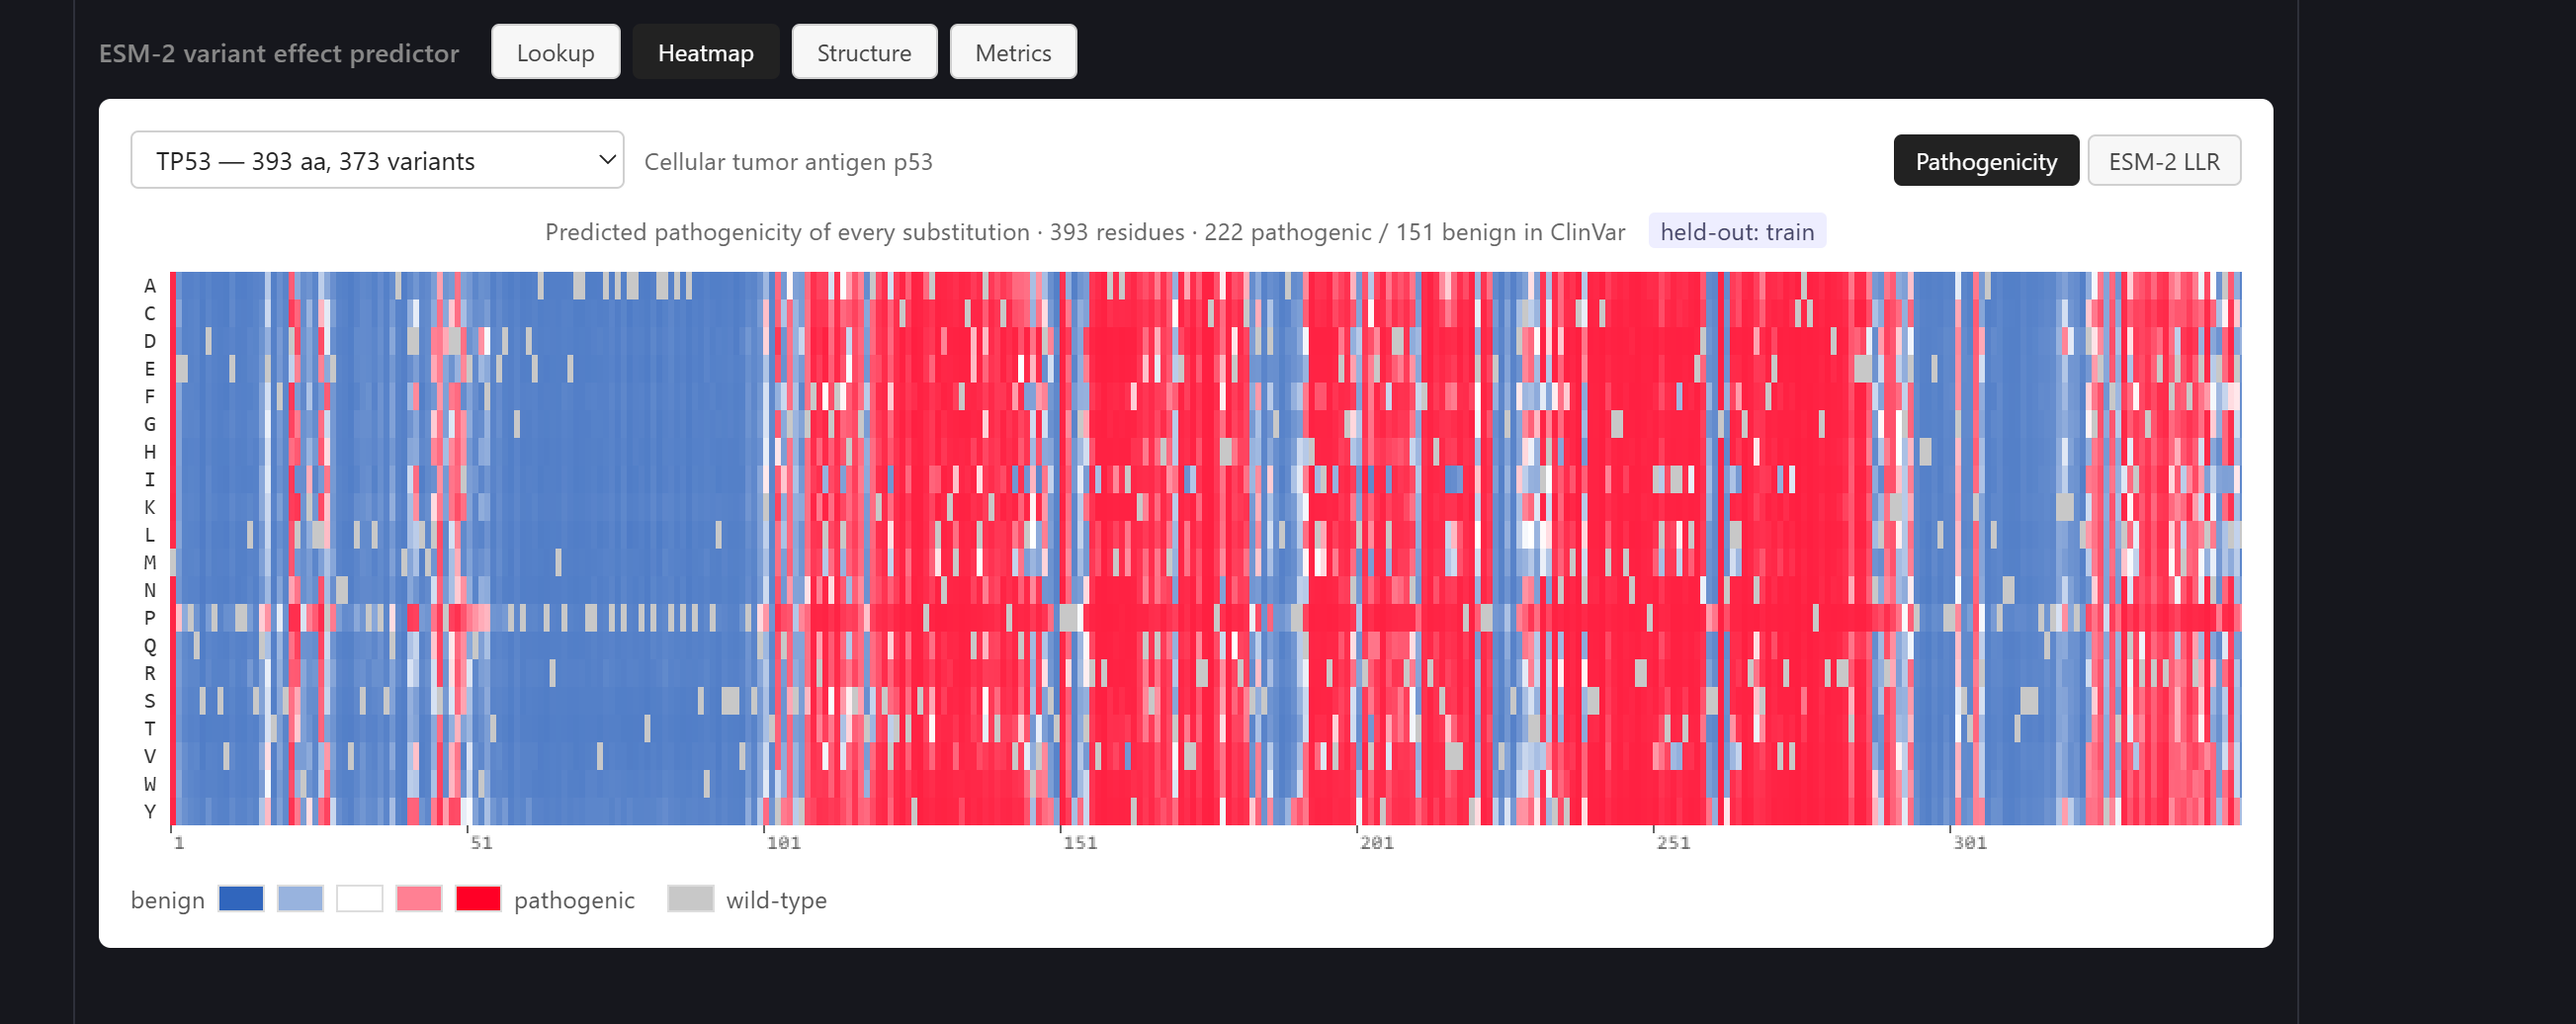
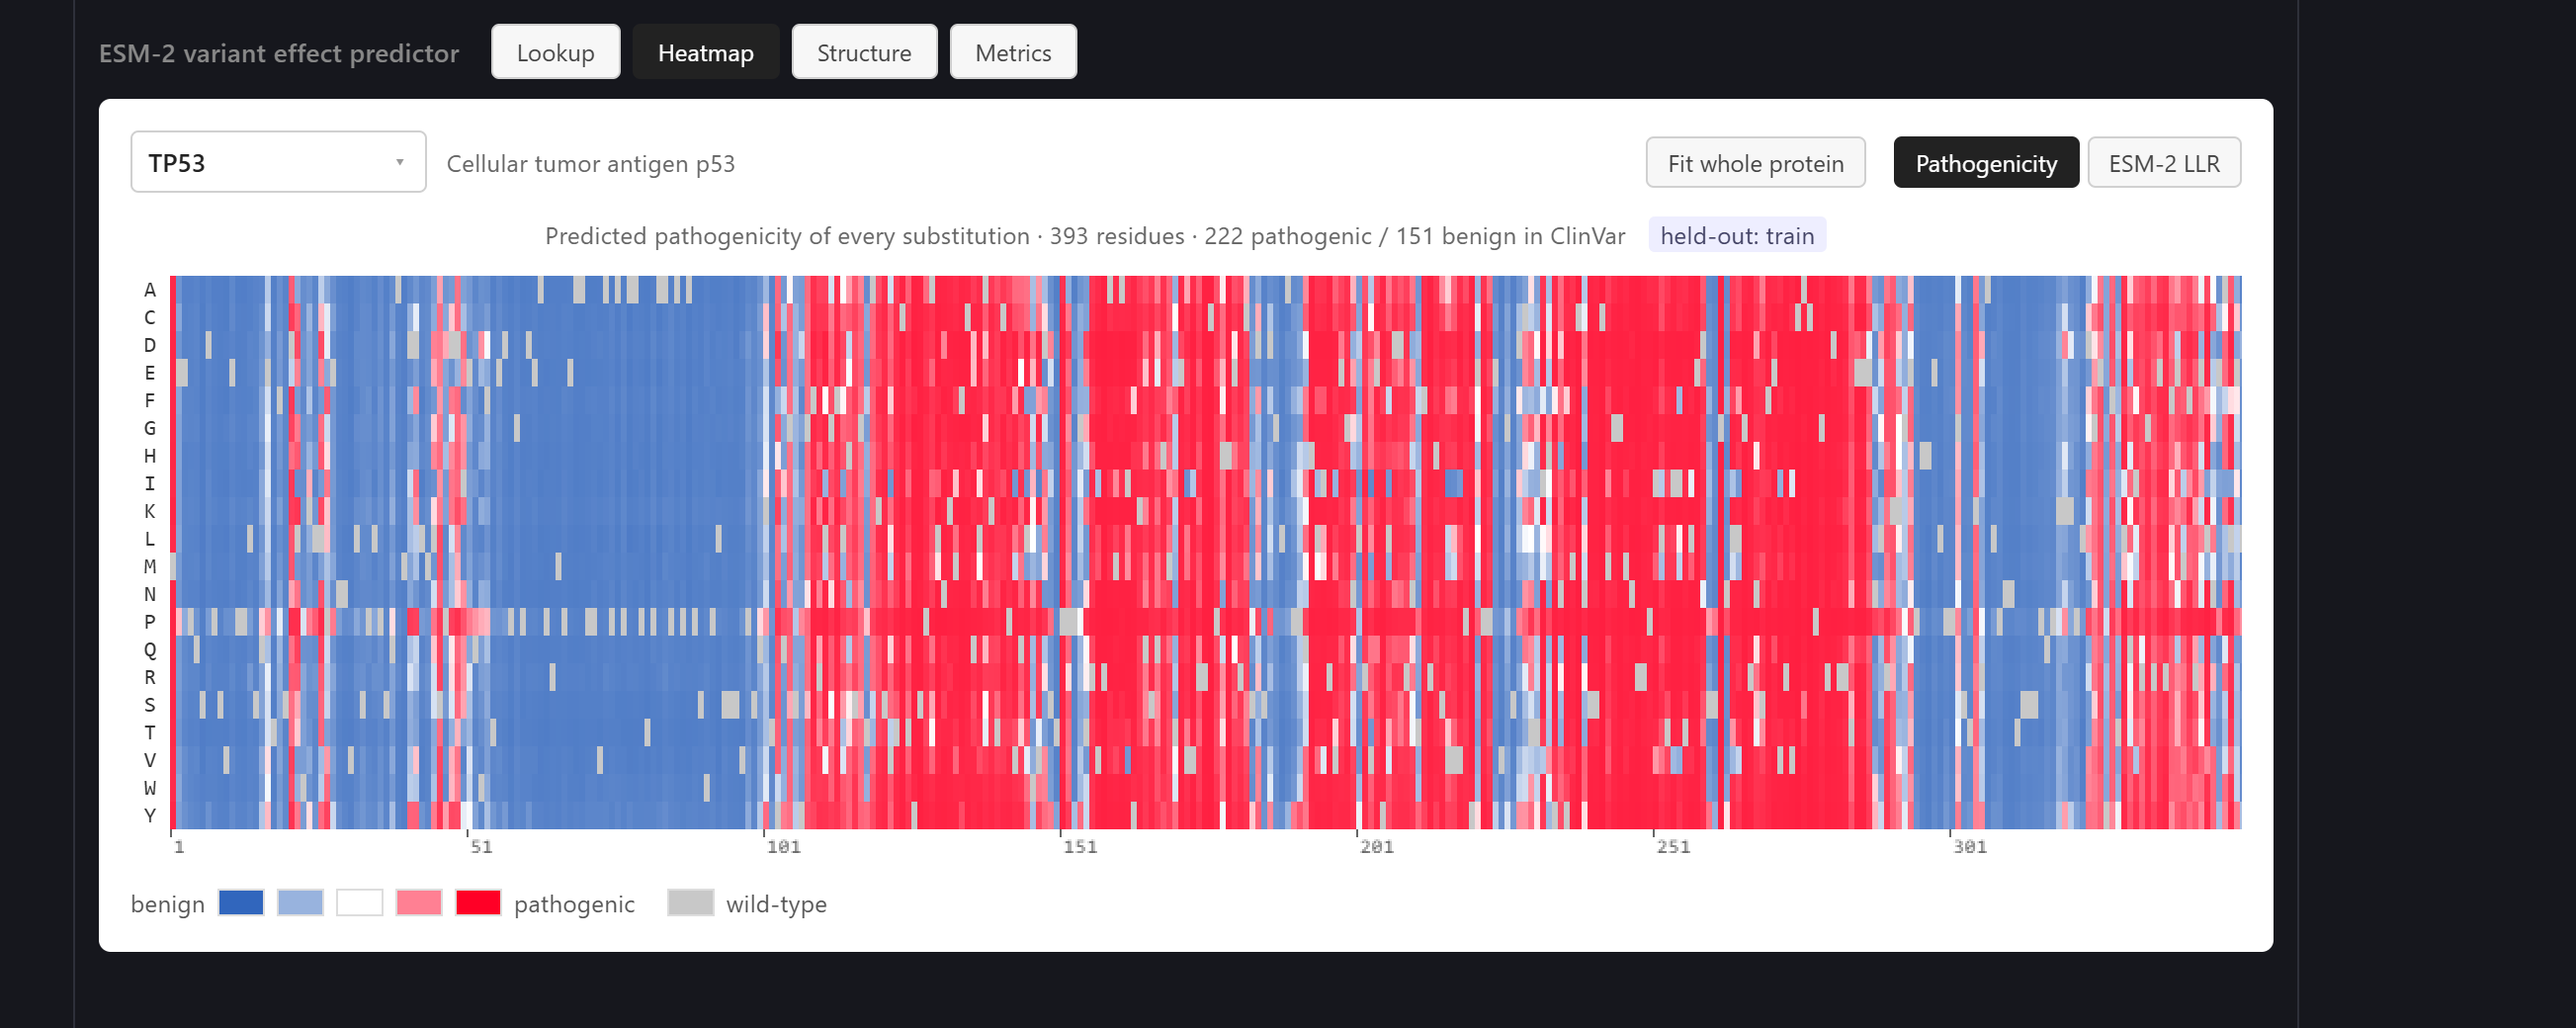
Add a filterable gene picker and a fit mode for long proteins
The picker was a native select over 183 genes with no search, duplicated in
three views. One component now serves all of them: type to filter on symbol or
protein name, arrow keys and enter to choose. The heat map keeps its ready and
not-yet-computed distinction as a dot and a per-gene label.

The heat map drew 3px cells and nothing else, so BRCA2 showed about a tenth of
itself and the pathogenic cluster in its DNA-binding domain was three screens
off to the right. Fit mode divides the container width instead, and the ruler
spaces its ticks to match. The button only appears when a protein is too long
to fit.

diff --git a/front end/web/src/components/GenePicker.vue b/front end/web/src/components/GenePicker.vue
@@ -1,0 +1,195 @@
+<script setup lang="ts">
+import { computed, nextTick, ref } from 'vue'
+
+const props = withDefaults(defineProps<{
+  modelValue: string
+  genes: any[]
+  disabled?: boolean
+  label?: (g: any) => string
+  ready?: (g: any) => boolean
+}>(), {
+  disabled: false,
+  label: (g: any) => `${g.length} aa`,
+  ready: () => true,
+})
+
+const emit = defineEmits<{ (e: 'select', symbol: string): void }>()
+
+const open = ref(false)
+const query = ref('')
+const active = ref(0)
+const box = ref<HTMLElement | null>(null)
+const field = ref<HTMLInputElement | null>(null)
+
+const matches = computed(() => {
+  const q = query.value.trim().toLowerCase()
+  const hit = (g: any) =>
+    !q || g.symbol.toLowerCase().includes(q) ||
+    (g.protein_name || '').toLowerCase().includes(q)
+  const found = props.genes.filter(hit)
+  return [...found].sort((a, b) => {
+    const r = Number(props.ready(b)) - Number(props.ready(a))
+    if (r) return r
+    // Exact prefix matches first, so typing "TP5" surfaces TP53 above TP53BP1.
+    const q2 = query.value.trim().toLowerCase()
+    const pa = Number(b.symbol.toLowerCase().startsWith(q2)) -
+               Number(a.symbol.toLowerCase().startsWith(q2))
+    return pa || a.symbol.localeCompare(b.symbol)
+  })
+})
+
+async function show() {
+  if (props.disabled) return
+  open.value = true
+  query.value = ''
+  active.value = Math.max(0, matches.value.findIndex((g) => g.symbol === props.modelValue))
+  await nextTick()
+  field.value?.focus()
+  scrollActive()
+}
+
+function hide() {
+  open.value = false
+}
+
+function choose(symbol: string) {
+  hide()
+  if (symbol !== props.modelValue) emit('select', symbol)
+}
+
+function move(step: number) {
+  if (!matches.value.length) return
+  active.value = (active.value + step + matches.value.length) % matches.value.length
+  scrollActive()
+}
+
+function scrollActive() {
+  nextTick(() => {
+    box.value?.querySelector('.row.active')?.scrollIntoView({ block: 'nearest' })
+  })
+}
+
+function onBlur(e: FocusEvent) {
+  const next = e.relatedTarget as Node | null
+  if (!next || !box.value?.contains(next)) hide()
+}
+</script>
+
+<template>
+  <div class="picker" @keydown.escape="hide">
+    <button v-if="!open" class="current" :disabled="disabled" @click="show">
+      <span class="sym">{{ modelValue }}</span>
+      <span class="chev">▾</span>
+    </button>
+
+    <div v-else ref="box" class="popup" @focusout="onBlur">
+      <input
+        ref="field"
+        v-model="query"
+        class="filter"
+        spellcheck="false"
+        placeholder="Filter genes…"
+        @keydown.down.prevent="move(1)"
+        @keydown.up.prevent="move(-1)"
+        @keydown.enter.prevent="matches[active] && choose(matches[active].symbol)"
+      />
+      <div class="list">
+        <button
+          v-for="(g, i) in matches"
+          :key="g.symbol"
+          class="row"
+          :class="{ active: i === active, current: g.symbol === modelValue }"
+          @mousemove="active = i"
+          @click="choose(g.symbol)"
+        >
+          <span class="dot" :class="{ pending: !ready(g) }"></span>
+          <span class="sym">{{ g.symbol }}</span>
+          <span class="meta">{{ label(g) }}</span>
+        </button>
+        <p v-if="!matches.length" class="empty">No gene matches “{{ query }}”</p>
+      </div>
+    </div>
+  </div>
+</template>
+
+<style scoped>
+.picker {
+  position: relative;
+  font: 13px/1.5 system-ui, sans-serif;
+}
+
+.current, .filter {
+  font: inherit;
+  font-size: 13px;
+  padding: 5px 8px;
+  border: 1px solid #d0d0d0;
+  border-radius: 4px;
+  background: #fff;
+  color: #222;
+}
+
+.current {
+  display: flex;
+  align-items: center;
+  gap: 10px;
+  min-width: 150px;
+  cursor: pointer;
+  text-align: left;
+}
+
+.current:disabled { opacity: 0.5; cursor: default; }
+.chev { margin-left: auto; color: #999; font-size: 11px; }
+.sym { font-weight: 600; }
+
+.popup {
+  position: absolute;
+  top: 0;
+  left: 0;
+  z-index: 20;
+  width: 330px;
+  background: #fff;
+  border: 1px solid #c4c4c4;
+  border-radius: 4px;
+  box-shadow: 0 6px 20px rgba(0, 0, 0, 0.14);
+}
+
+.filter {
+  width: 100%;
+  border: 0;
+  border-bottom: 1px solid #eee;
+  border-radius: 4px 4px 0 0;
+  outline: none;
+}
+
+.list { max-height: 300px; overflow-y: auto; }
+
+.row {
+  display: flex;
+  align-items: center;
+  gap: 8px;
+  width: 100%;
+  padding: 5px 9px;
+  border: 0;
+  background: none;
+  font: inherit;
+  font-size: 12px;
+  color: #333;
+  text-align: left;
+  cursor: pointer;
+}
+
+.row.active { background: #eef3fb; }
+.row.current .sym { color: #0a58ca; }
+.meta { margin-left: auto; color: #888; font-size: 11px; }
+
+.dot {
+  width: 6px;
+  height: 6px;
+  border-radius: 50%;
+  background: #7bc47f;
+  flex: 0 0 auto;
+}
+.dot.pending { background: #d9d9d9; }
+
+.empty { padding: 10px; margin: 0; color: #888; font-size: 12px; }
+</style>

diff --git a/front end/web/src/components/Heatmap.vue b/front end/web/src/components/Heatmap.vue
@@ -1,6 +1,7 @@
 <script setup lang="ts">
 import { computed, onMounted, ref, watch } from 'vue'
 import { API, state, syncUrl } from '../state'
+import GenePicker from './GenePicker.vue'
 
 // --- state -----------------------------------------------------------------
 // ref() makes a value reactive: read/write it as .value here in the script,
@@ -77,10 +78,24 @@ function estimateLabel(length: number): string {
   const s = estimateSeconds(length)
   return s < 90 ? `~${Math.round(s)}s` : s < 5400 ? `~${(s / 60).toFixed(0)}m` : `~${(s / 3600).toFixed(1)}h`
 }
-const readyGenes = computed(() => genes.value.filter(isReady))
-const pendingGenes = computed(() => genes.value.filter((g) => !isReady(g)))
+function pickerLabel(g: any): string {
+  return isReady(g)
+    ? `${g.length} aa, ${g.n_variants} variants`
+    : `${g.length} aa, ${estimateLabel(g.length)} to compute`
+}
 
 const CELL_WIDTH = 3
+
+// Long proteins do not fit at 3px per residue - BRCA2 shows about a tenth of
+// itself - so fit mode divides the container width instead.
+const fit = ref(false)
+const cellW = ref(CELL_WIDTH)
+
+function toggleFit() {
+  fit.value = !fit.value
+  draw()
+}
+
 const CELL_HEIGHT = 14
 const RULER_HEIGHT = 16
 
@@ -171,7 +186,7 @@ function onMove(event: MouseEvent) {
 
   // offsetX/offsetY are relative to the canvas itself, so the horizontal
   // scroll of the container needs no correction here.
-  const position = Math.floor(event.offsetX / CELL_WIDTH)
+  const position = Math.floor(event.offsetX / cellW.value)
   const aaIndex = Math.floor(event.offsetY / CELL_HEIGHT)
 
   // Below the last amino-acid row is the position ruler, not data.
@@ -231,7 +246,9 @@ function draw() {
   const length = matrix.value.length
   const nAA = alphabet.value.length
 
-  canvas.width = length * CELL_WIDTH
+  const available = canvas.parentElement?.clientWidth ?? 0
+  cellW.value = fit.value && available ? available / length : CELL_WIDTH
+  canvas.width = Math.max(1, Math.round(length * cellW.value))
   canvas.height = nAA * CELL_HEIGHT + RULER_HEIGHT
 
   const ctx = canvas.getContext('2d')
@@ -247,9 +264,9 @@ function draw() {
       // grey rather than whatever the scale maps 0 (or 0.5) to.
       ctx.fillStyle = value === null ? '#c8c8c8' : colourFor(value)
       ctx.fillRect(
-        position * CELL_WIDTH,
+        position * cellW.value,
         aaIndex * CELL_HEIGHT,
-        CELL_WIDTH,
+        Math.ceil(cellW.value),
         CELL_HEIGHT,
       )
     }
@@ -260,8 +277,11 @@ function draw() {
   ctx.fillStyle = '#666'
   ctx.font = '10px monospace'
   ctx.textBaseline = 'top'
-  for (let position = 0; position < length; position += 50) {
-    const x = position * CELL_WIDTH
+  // Thin cells cannot carry a tick every 50 residues without the labels
+  // colliding.
+  const step = Math.max(50, Math.ceil(60 / cellW.value / 50) * 50)
+  for (let position = 0; position < length; position += step) {
+    const x = position * cellW.value
     ctx.fillRect(x, rulerTop, 1, 4)
     ctx.fillText(String(position + 1), x + 2, rulerTop + 5)
   }
@@ -397,28 +417,20 @@ onMounted(async () => {
   <div class="wrap">
     <header>
       <div class="pick">
-        <select
-          :value="gene"
+        <GenePicker
+          :model-value="gene"
+          :genes="genes"
           :disabled="loading"
-          @change="selectGene(($event.target as HTMLSelectElement).value)"
-        >
-          <optgroup :label="`Ready (${readyGenes.length})`">
-            <option v-for="g in readyGenes" :key="g.symbol" :value="g.symbol">
-              {{ g.symbol }} &mdash; {{ g.length }} aa, {{ g.n_variants }} variants
-            </option>
-          </optgroup>
-          <optgroup
-            v-if="pendingGenes.length"
-            :label="`Not yet computed (${pendingGenes.length}) — needs a GPU scan`"
-          >
-            <option v-for="g in pendingGenes" :key="g.symbol" :value="g.symbol">
-              {{ g.symbol }} &mdash; {{ g.length }} aa, {{ estimateLabel(g.length) }} to compute
-            </option>
-          </optgroup>
-        </select>
+          :ready="isReady"
+          :label="pickerLabel"
+          @select="selectGene"
+        />
         <span v-if="current" class="protein">{{ current.protein_name }}</span>
       </div>
       <div class="modes">
+        <button v-if="matrix.length * 3 > 1100" class="zoom" @click="toggleFit">
+          {{ fit ? 'Detail' : 'Fit whole protein' }}
+        </button>
         <button :class="{ on: mode === 'probability' }" @click="setMode('probability')">
           Pathogenicity
         </button>
@@ -568,6 +580,8 @@ header {
   background: #fff3cd;
   color: #7a5b00;
 }
+
+.zoom { margin-right: 10px; }
 
 .modes {
   display: flex;

diff --git a/front end/web/src/components/Structure.vue b/front end/web/src/components/Structure.vue
@@ -1,6 +1,7 @@
 <script setup lang="ts">
 import { computed, onBeforeUnmount, onMounted, ref, shallowRef, watch } from 'vue'
 import { API, state, syncUrl } from '../state'
+import GenePicker from './GenePicker.vue'
 
 declare const $3Dmol: any
 
@@ -184,12 +185,8 @@ onBeforeUnmount(() => {
 <template>
   <div class="wrap">
     <header>
-      <select :value="gene" :disabled="loading"
-              @change="selectGene(($event.target as HTMLSelectElement).value)">
-        <option v-for="g in genes" :key="g.symbol" :value="g.symbol">
-          {{ g.symbol }} &mdash; {{ g.length }} aa
-        </option>
-      </select>
+      <GenePicker :model-value="state.gene" :genes="genes" :disabled="loading"
+                  @select="selectGene" />
       <span v-if="current" class="protein">{{ current.protein_name }}</span>
       <div class="modes">
         <button :class="{ on: colourBy === 'pathogenicity' }" @click="setColourBy('pathogenicity')">

diff --git a/front end/web/src/components/Lookup.vue b/front end/web/src/components/Lookup.vue
@@ -1,6 +1,7 @@
 <script setup lang="ts">
 import { computed, onMounted, ref, watch } from 'vue'
 import { API, state, syncUrl } from '../state'
+import GenePicker from './GenePicker.vue'
 
 interface Result {
   variant: string
@@ -118,12 +119,8 @@ onMounted(async () => {
 <template>
   <div class="wrap">
     <header>
-      <select :value="state.gene" :disabled="loading"
-              @change="selectGene(($event.target as HTMLSelectElement).value)">
-        <option v-for="g in genes" :key="g.symbol" :value="g.symbol">
-          {{ g.symbol }} &mdash; {{ g.length }} aa
-        </option>
-      </select>
+      <GenePicker :model-value="state.gene" :genes="genes" :disabled="loading"
+                  @select="selectGene" />
 
       <input v-model="input" class="variants" spellcheck="false"
              placeholder="R175H, P72R &hellip;"
